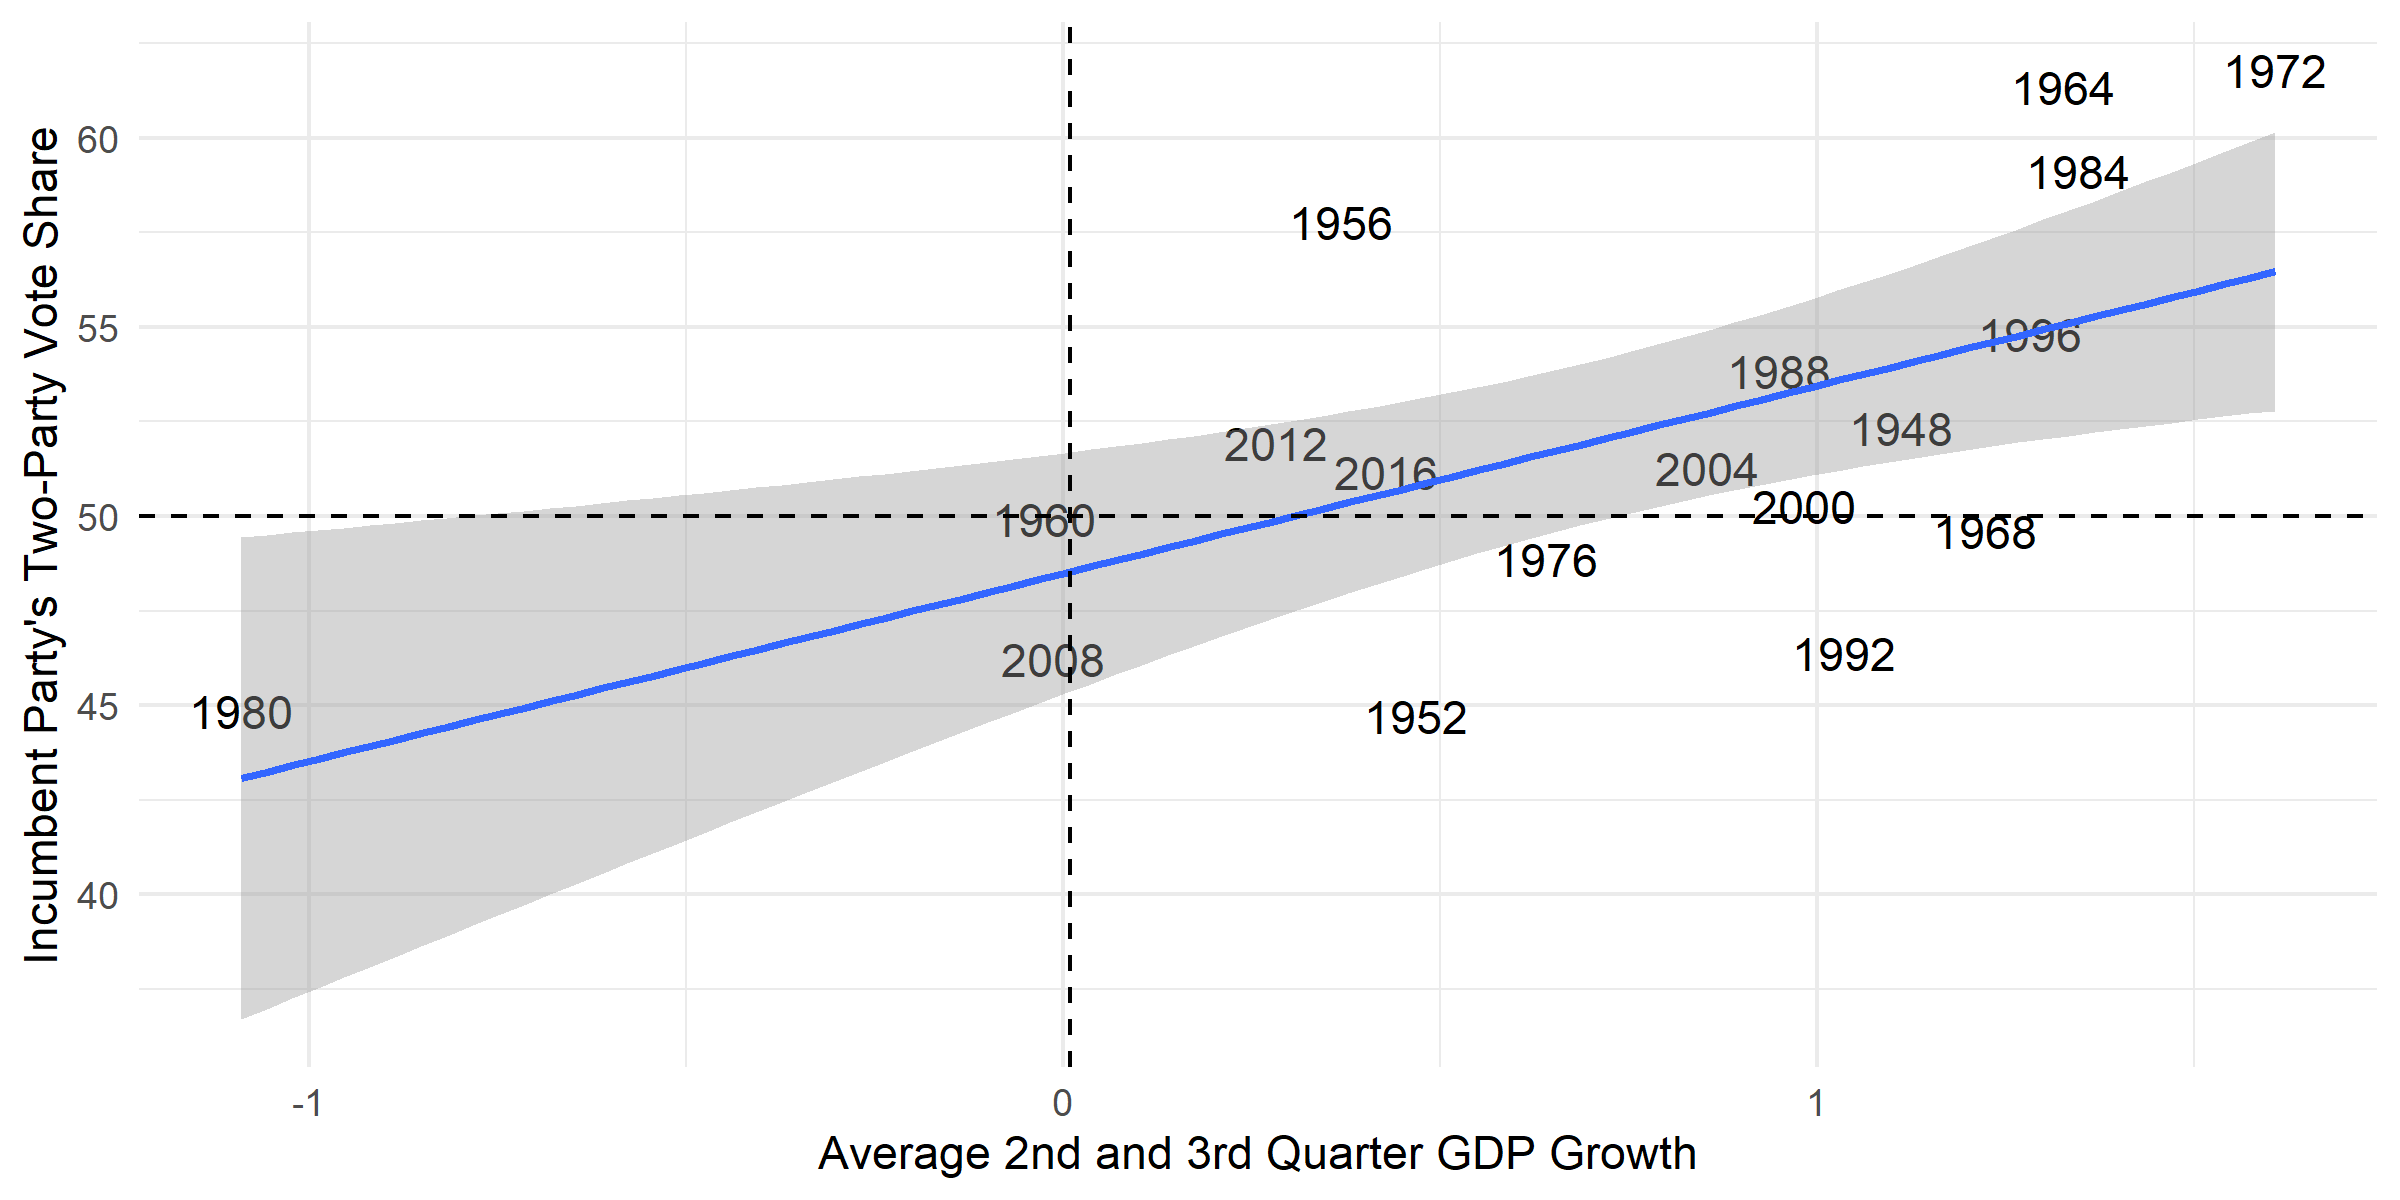
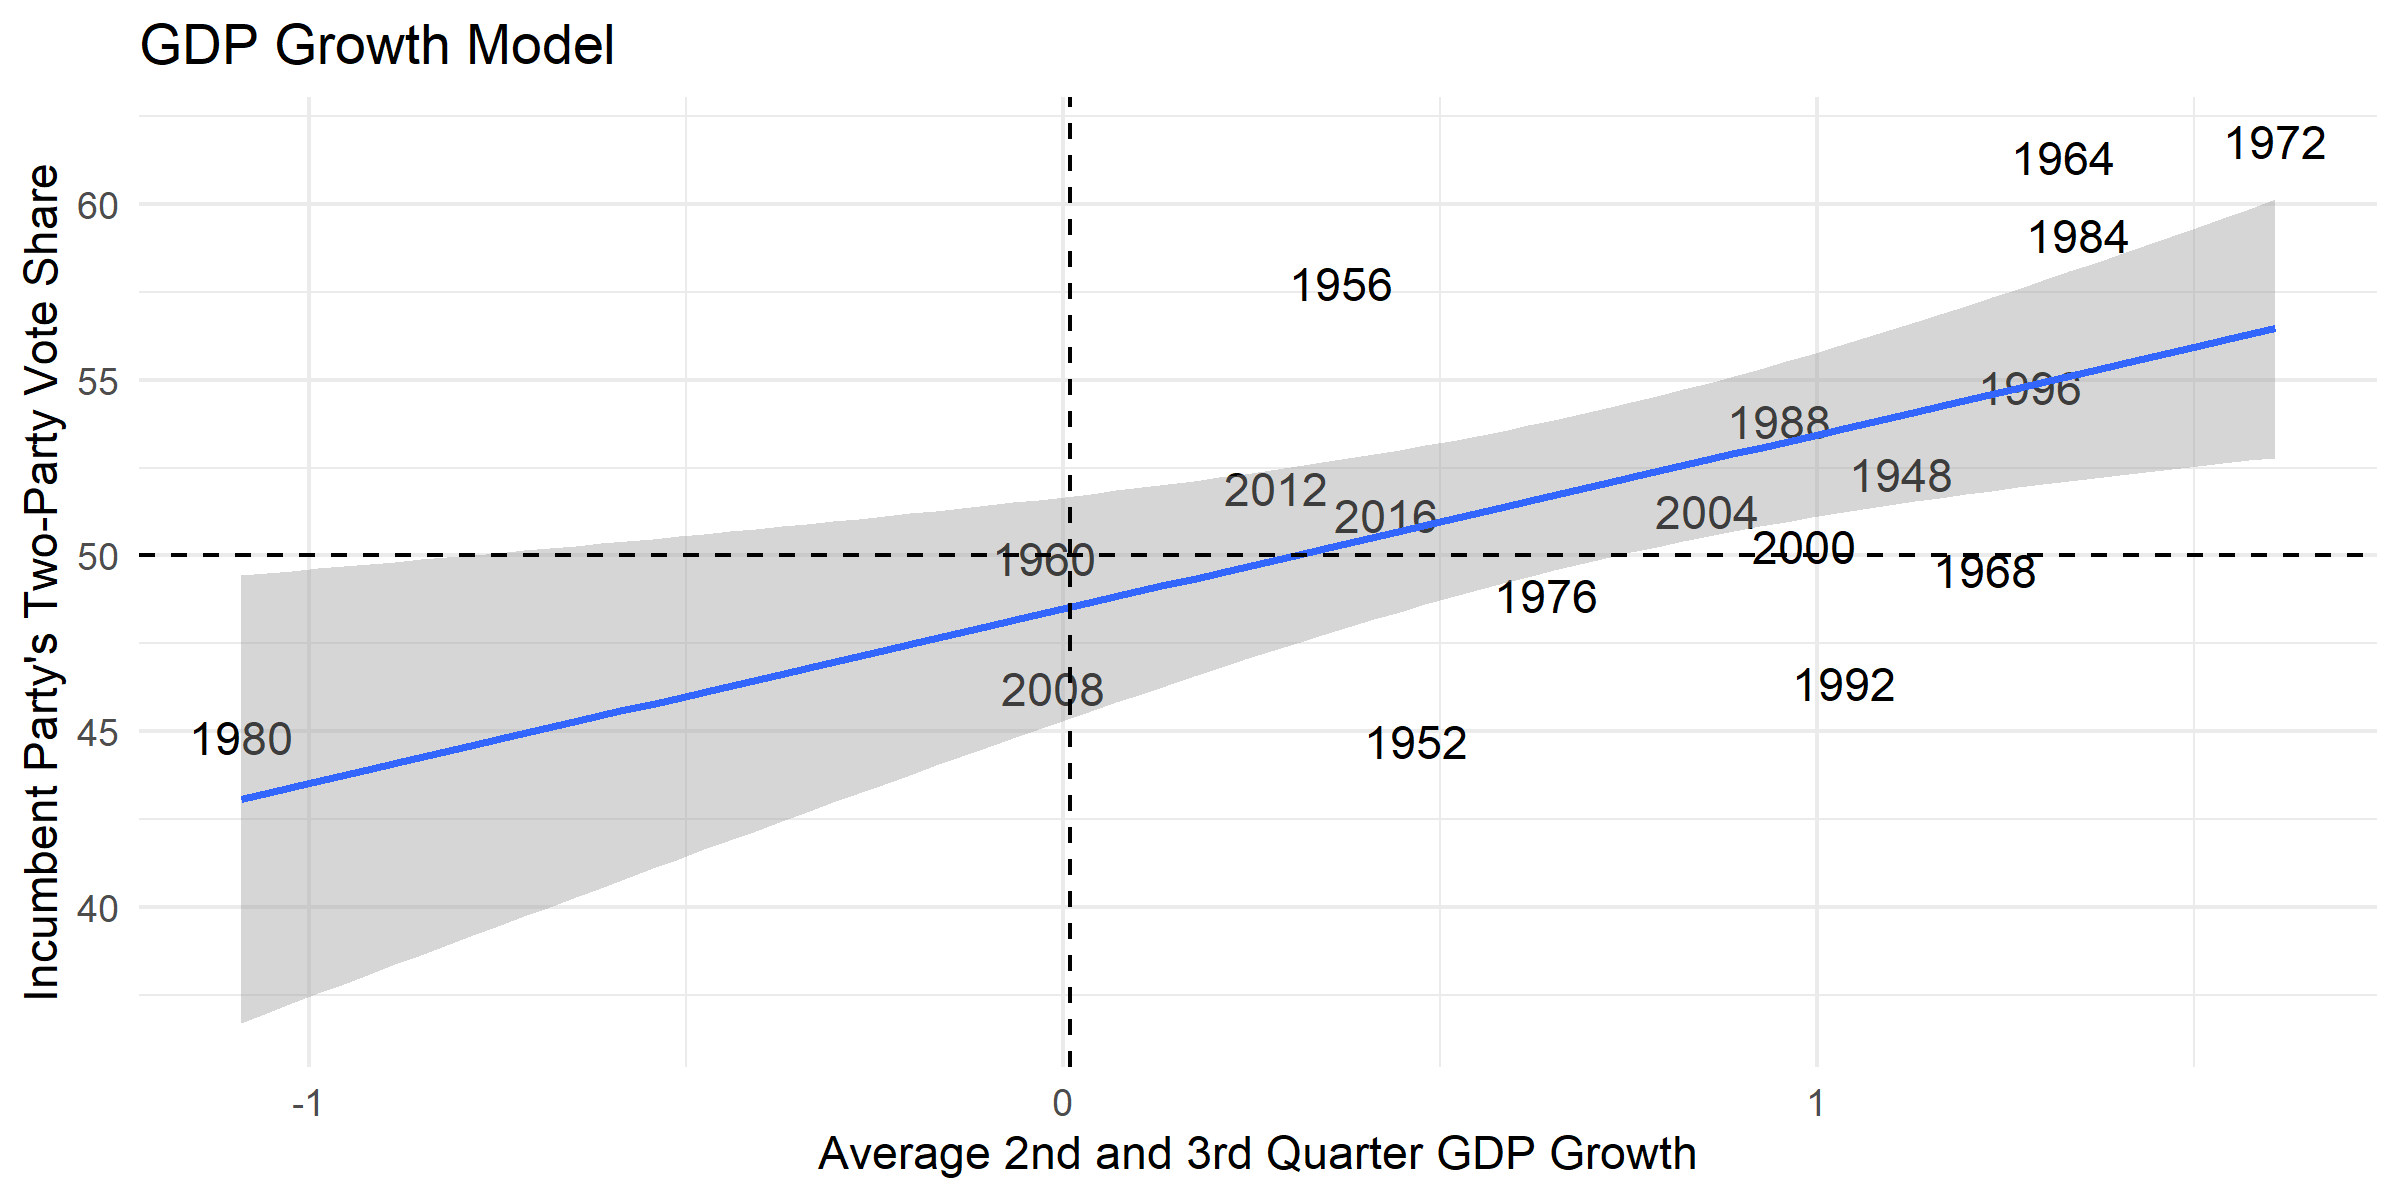
Making patchwork graphs

diff --git a/_posts/2020-9-20-Economics.md b/_posts/2020-9-20-Economics.md
@@ -15,10 +15,8 @@ product (GDP) growth and real disposable income (RDI) growth.
 In order to use these economic variables as predictors, I will first examine how
 well these variables have correlated with voting in past elections.
 
-![picture](../images/gdp_model.png)
-![picture](../images/rdi_model.png)
-![picture](../images/unemployment_model.png)
-![picture](../images/inflation_model.png)
+![picture](../images/patchwork_1.png)
+![picture](../images/patchwork_2.png)
 
 Judging purely by the images, it appears that unemployment, RDI growth, and GDP
 growth all correlate with the incumbent party's vote share. However, we can
